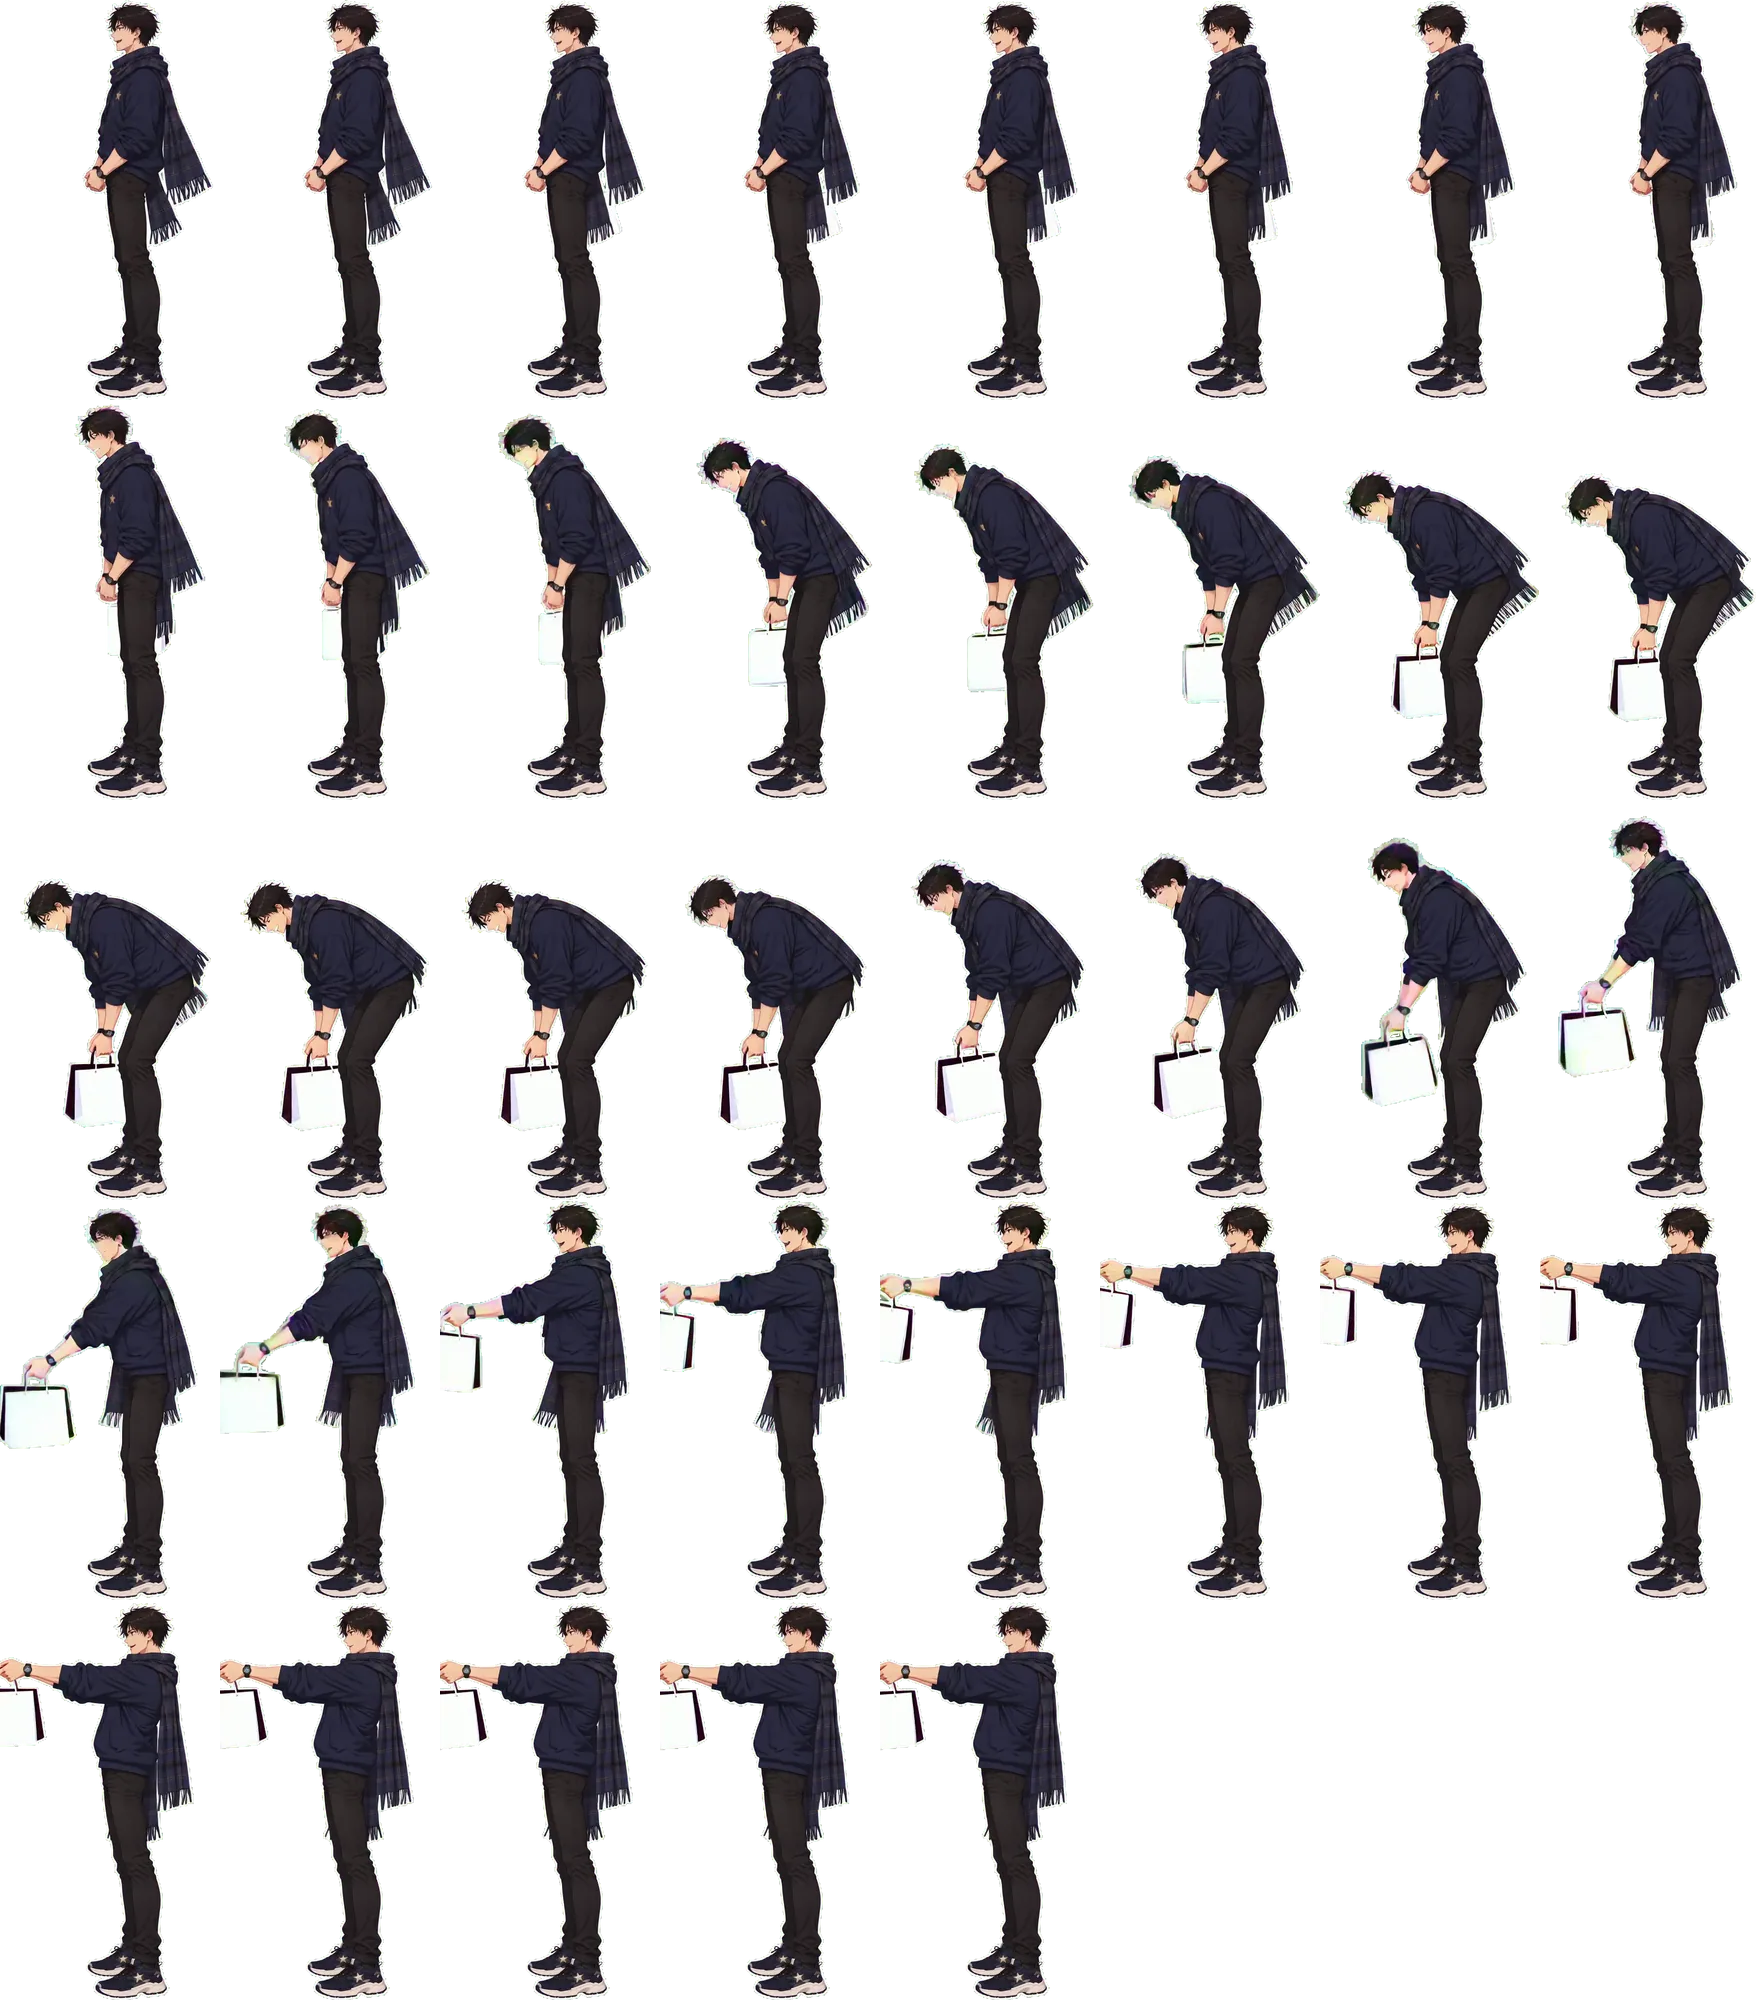
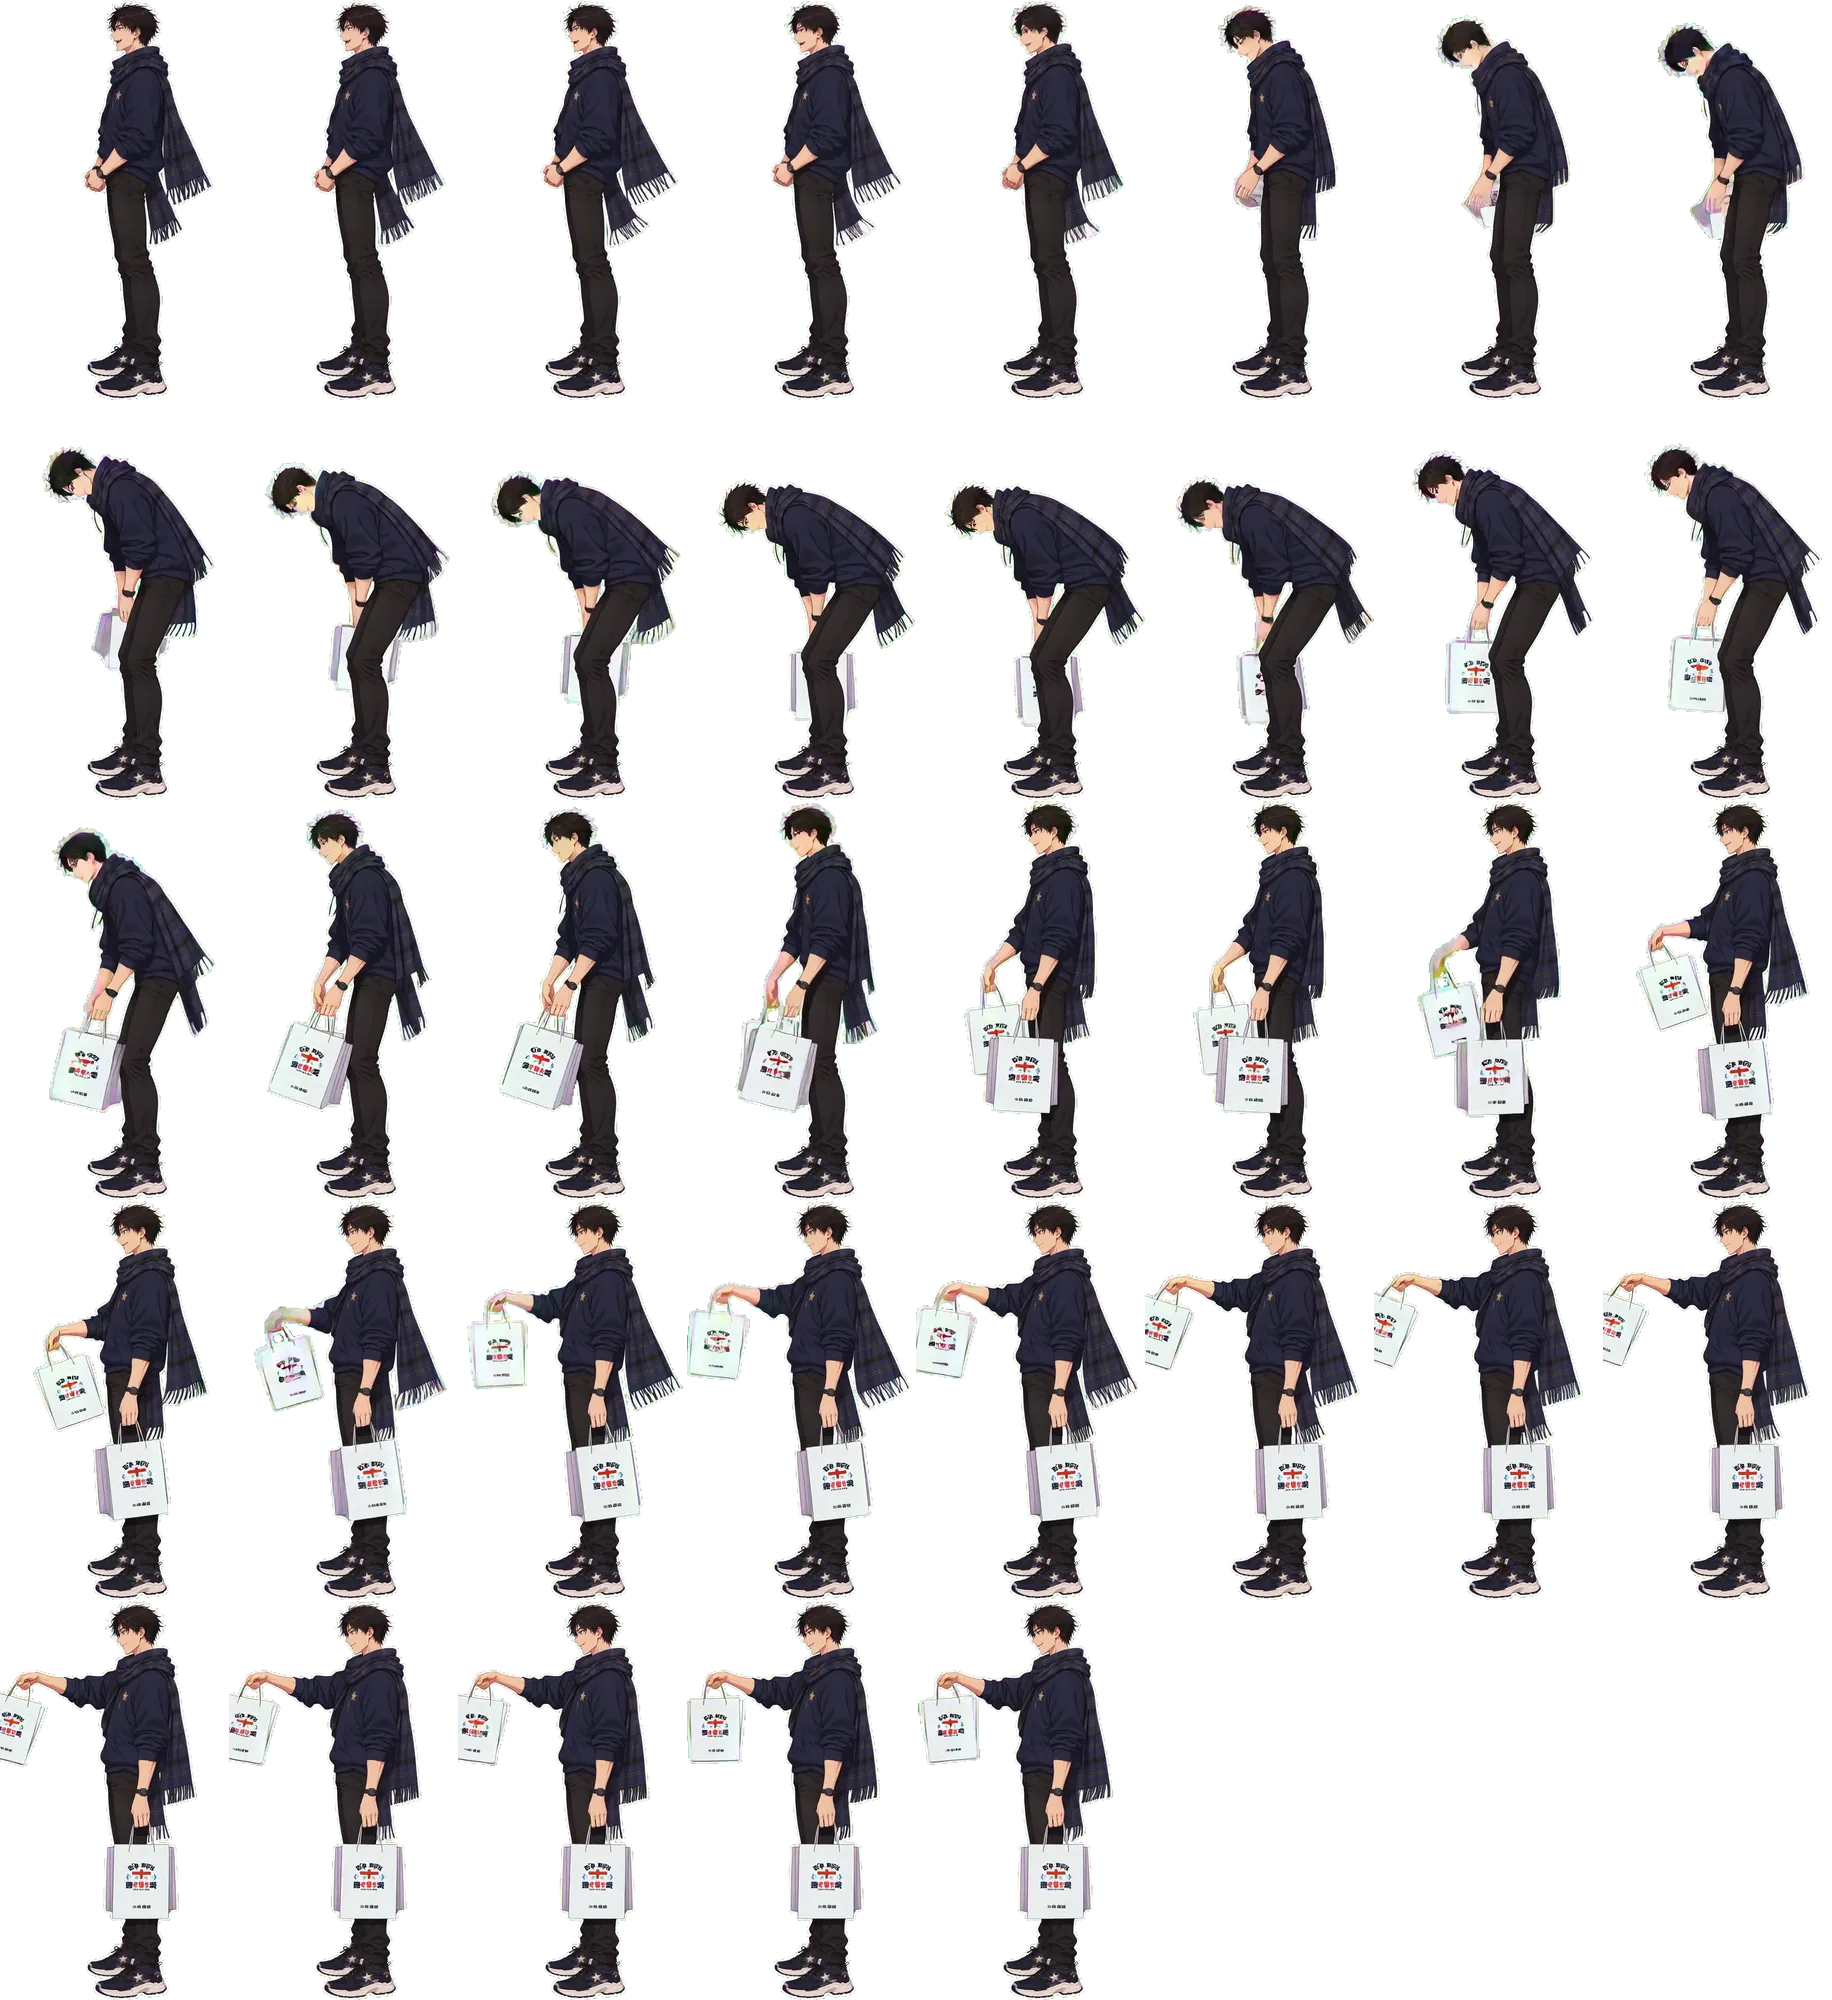
Batalla: los efectos (hielo, círculo mágico, llamas, onda, tajos y humo) son recortes de papel dibujados que se levantan y se pliegan; Rancek entrega dos bolsas

Changed region(s): [[0.0, 0.0, 1.0, 1.0], [0.5312, 0.837, 0.625, 1.0]]

diff --git a/cuento.js b/cuento.js
@@ -645,7 +645,15 @@
       an.onfinish = () => { cerrar(); an.cancel(); fin(mia === vuelta); };
     });
     // efectos dibujados sobre el piso: tajo, onda, círculo mágico, picos de hielo, llamas, humo
+    // los efectos de la batalla son recortes de papel dibujados: se levantan de la hoja y se vuelven a plegar
+    const FX_PAPEL = { picos: 'hielo', llamas: 'llamas', circulo: 'circulo', onda: 'onda', tajo: 'tajo', humo: 'humo' };
     const efecto = (tipo, x, ancho = 10, y = 0, ms = 900) => {
+      if (FX_PAPEL[tipo]) {
+        const im = document.createElement('img'); im.src = 'assets/cuento/fx/' + FX_PAPEL[tipo] + '.webp'; im.alt = '';
+        im.className = 'hito-pop hito-actor delante fx-papel fx-' + tipo + (tipo === 'circulo' ? ' plano' : ''); im.style.left = (x - ancho / 2) + '%'; im.style.width = ancho + '%';
+        if (y) im.style.setProperty('--alza', y + '%');
+        levantar(im, 0); setTimeout(() => plegar(im), Math.max(500, ms - 400)); return;
+      }
       const e = document.createElement('div'); e.className = 'hito-fx fx-' + tipo; e.style.left = (x - ancho / 2) + '%'; e.style.width = ancho + '%'; e.style.setProperty('--z', ((y / 100) * (zona.offsetHeight || 1)).toFixed(1) + 'px'); e.style.setProperty('--ms', ms + 'ms');
       if (tipo === 'picos') e.innerHTML = '<i></i><i></i><i></i><i></i><i></i><i></i><i></i>';
       if (tipo === 'llamas' || tipo === 'humo') e.innerHTML = '<i></i><i></i><i></i><i></i><i></i>';

diff --git a/index.html b/index.html
@@ -12,7 +12,7 @@
   <link rel="preconnect" href="https://fonts.googleapis.com"><link rel="preconnect" href="https://fonts.gstatic.com" crossorigin>
   <link rel="stylesheet" href="https://fonts.googleapis.com/css2?family=Cinzel:wght@500;700&family=Mali:wght@400;600;700&family=Cormorant+Garamond:ital,wght@0,500;0,600;1,500&display=swap">
   <link rel="stylesheet" href="styles.css?v=20261002a">
-  <link rel="stylesheet" href="libro.css?v=20261026c">
+  <link rel="stylesheet" href="libro.css?v=20261027a">
   <link rel="stylesheet" href="tema-claro.css?v=20261002a">
   <link rel="stylesheet" href="intro.css?v=20260929f">
   <link rel="icon" href="assets/emblema-estrella.png">
@@ -32,7 +32,7 @@
   <script src="fondo-acuarela.js?v=20261007a" defer></script>
   <script src="secciones.js?v=20261017a" defer></script>
   <script src="libro.js?v=20261013b" defer></script>
-  <script src="cuento.js?v=20261026d" defer></script>
+  <script src="cuento.js?v=20261027a" defer></script>
   <script src="vendor/gsap.min.js" defer></script>
   <script src="vendor/MotionPathPlugin.min.js" defer></script>
   <script src="intro-trazos.js?v=20260929c" defer></script>

diff --git a/libro.css b/libro.css
@@ -2033,3 +2033,9 @@ html.pantalla-corta .cielo-izq{left:-22vw}html.pantalla-corta .cielo-der{right:-
 /* la vitrina en vivo: el sitio real de Magical Alliance dentro del cuadro colgante */
 .vitrina-viva{padding:0 6px 6px}
 .vitrina-viva iframe{display:block;width:100%;height:min(62vh,640px);border:4px solid #fff;border-radius:16px;background:#fff6fb;box-shadow:0 0 0 3px #f0bcd9}
+/* ✦ efectos de batalla de papel: hielo, llamas, onda, tajo y humo se levantan como recortes; el círculo mágico queda dibujado sobre la hoja */
+.hito-actor.fx-papel{height:auto;filter:drop-shadow(2px 0 0 #fff) drop-shadow(-2px 0 0 #fff) drop-shadow(0 -2px 0 #fff);pointer-events:none;z-index:6;margin-bottom:var(--alza,0)}
+.hitos.abierta .hito-pop.fx-papel{transition:transform .45s cubic-bezier(.3,1.5,.55,1),opacity .15s linear}
+.hitos.abierta .hito-pop.fx-papel.pliega{transition:transform .35s ease-in,opacity .2s linear .2s}
+.hitos.abierta .hito-pop.fx-papel.plano{transform:translateY(40%) rotateX(0deg) scale(1);opacity:1;transition:opacity .4s,scale .4s}
+.hitos.abierta .hito-pop.fx-papel.plano.pliega{opacity:0;scale:.6}
